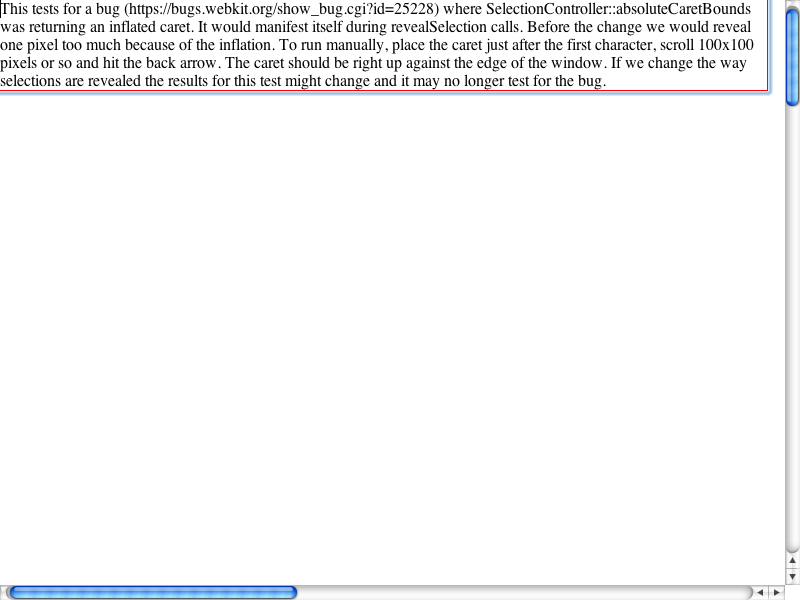
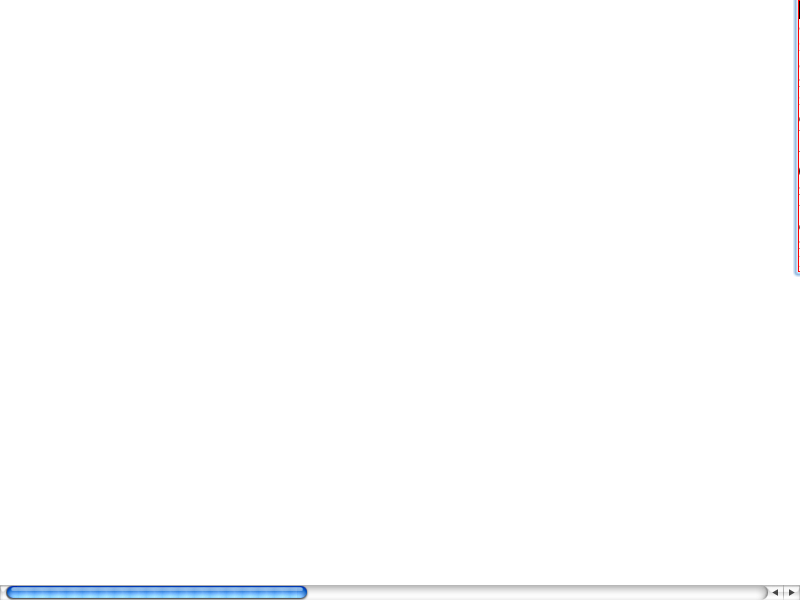
2010-05-26  Zelidrag Hornung  <zelidrag@chromium.org>
Reviewed by Ojan Vafai.

        Fixed frame page up/down scrolling calculation. Made sure that the
        cursor moves with page up/down event. Please note that now for mac
        editing behavior we will scroll the content to center the cursor on
        page up/down while other platforms will align the cursor with the top of
        displayed frame.
        https://bugs.webkit.org/show_bug.cgi?id=38213

        * editing/input/option-page-up-down-expected.txt: Fixed page scroll calculation. Now scroll height is calculated only from the visible portion not the entire frame height.
        * editing/input/option-page-up-down.html: Ditto.
        * editing/input/scroll-viewport-page-up-down-expected.txt: Scrolling test of contenteditable iframe and div.
        * editing/input/scroll-viewport-page-up-down.html: Ditto.
        * editing/resources/contenteditable-iframe-fixed-size-src.html: Resource for the scrolling test above.
        * platform/mac/editing/selection/25228.html: Change the test to have the cursor on the right edge of the screen.  The original test
            wasn't testing the behavior anymore.
2010-05-26  Zelidrag Hornung  <zelidrag@chromium.org>

        Reviewed by Ojan Vafai.

        Fixed frame page up/down scrolling calculation. Made sure that the
        cursor moves with page up/down event. Please note that now for mac
        editing behavior we will scroll the content to center the cursor on
[…]

Changed region(s): [[0.0, 0.0, 1.0, 1.0], [0.3438, 0.96, 0.4062, 1.0], [0.0, 0.96, 0.0312, 1.0]]

diff --git a/editing/input/option-page-up-down.html b/editing/input/option-page-up-down.html
@@ -1,17 +1,43 @@
+<head>
+<style type="text/css">
+  .ahem { font: 20px Ahem; }
+</style>
 <script>
 if (window.layoutTestController)
     layoutTestController.dumpAsText();
 
-function runTest()
-{
+function runTest() {
+  runFrameCursorMoveTest();
+  runDivCursorMoveTest();
+}
+
+function generateContent() {
+    var content = "";
+    for (var i = 0; i < 10; ++i)
+        content += "<p>line " + i + "</p>\n";
+    return content;
+}
+
+function runFrameCursorMoveTest() {
     var frame = frames[0];
     var doc = frame.document;
     var body = doc.body;
-    for (var i = 0; i < 10; ++i)
-        body.innerHTML += "<p>line " + i + "</p>\n";
+    body.innerHTML = generateContent();
     frame.focus();
     frame.getSelection().setPosition(body.firstChild, 0);
+    runCursorMoveTest("iframe", frame, frame);
+}
 
+function runDivCursorMoveTest() {
+    var editable = document.getElementById('editable');
+    editable.innerHTML = generateContent();
+    editable.focus();
+    window.getSelection().setPosition(editable, 0);
+    runCursorMoveTest("div", editable, window);
+}
+
+function runCursorMoveTest(testName, frame, selectionSource)
+{
     var onMacPlatform = navigator.userAgent.search(/\bMac OS X\b/) != -1;
     var modifiers = onMacPlatform ? ["altKey"] : [];
 
@@ -19,26 +45,46 @@ function runTest()
         return;
 
     eventSender.keyDown("pageDown", modifiers);
-    var line = frame.getSelection().baseNode.nodeValue;
-    if (line != "line 8")
-        throw "cursor should be at line 8, not " + line;
+    var line = selectionSource.getSelection().baseNode.nodeValue;
+    if (line != "line 3")
+        throw "cursor should be at line 3, not " + line;
 
     eventSender.keyDown("pageDown", modifiers);
-    var line = frame.getSelection().baseNode.nodeValue;
-    if (line != "line 9")
-        throw "cursor should be at line 9, not " + line;
+    var line = selectionSource.getSelection().baseNode.nodeValue;
+    if (line != "line 6")
+        throw "cursor should be at line 6, not " + line;
 
     eventSender.keyDown("pageUp", modifiers);
-    var line = frame.getSelection().baseNode.nodeValue;
-    if (line != "line 1")
-        throw "cursor should be at line 1, not " + line;
+    var line = selectionSource.getSelection().baseNode.nodeValue;
+    if (line != "line 3")
+        throw "cursor should be at line 3, not " + line;
 
-    document.getElementById("results").innerText = "PASS";
+    // Test that on Mac pageDown/pageUp does not move the cursor at all.
+    if (onMacPlatform) {
+      eventSender.keyDown("pageDown", []);
+      var line = selectionSource.getSelection().baseNode.nodeValue;
+      if (line != "line 3") {
+          document.getElementById("results").innerText = "cursor should be at line 3, not " + line;
+          throw "cursor should be at line 3, not " + line;
+      }
+
+      eventSender.keyDown("pageUp", []);
+      var line = selectionSource.getSelection().baseNode.nodeValue;
+      if (line != "line 3") {
+          document.getElementById("results").innerText = "cursor should be at line 3, not " + line;
+          throw "cursor should be at line 3, not " + line;
+      }
+    }
+
+    document.getElementById("results").innerHTML += testName + " PASS<br/>";
 }
 </script>
-
-<div>On Mac, option+pagedown should move the mouse cursor and scroll in text areas.  On
-other platforms, pagedown should move the mouse cursor and scroll in text areas.  This
-test requires DRT to pass.</div>
-<iframe src="../resources/contenteditable-iframe-src.html" onload="runTest()"></iframe>
-<div id="results">FAIL</div>
+</head>
+<body>
+<div>Page up/down (option+page up/down on Mac) should move the move cursor and scroll the content
+in contenteditable elements. This sample covers cursor position move test of a) iframe element containing
+contenteditable body, and b) content editable div element.</div>
+<iframe src="../resources/contenteditable-iframe-fixed-size-src.html" onload="runTest()"></iframe>
+<div id="editable" contenteditable="true" class="ahem" style="height:150px; overflow:auto;"></div>
+<div id="results"></div>
+</body>

diff --git a/editing/input/scroll-viewport-page-up-down.html b/editing/input/scroll-viewport-page-up-down.html
@@ -1,0 +1,89 @@
+<head>
+<style type="text/css">
+  .ahem { font: 20px Ahem; }
+</style>
+<script>
+
+if (window.layoutTestController)
+    layoutTestController.dumpAsText();
+
+var onMacPlatform = navigator.userAgent.search(/\bMac OS X\b/) != -1;
+
+function runTest() {
+    runFrameScrollTest();
+    runDivScrollTest();
+}
+
+function generateContent() {
+    var content = "";
+    for (var i = 0; i < 10; ++i)
+        content += "<p>line " + i + "</p>\n";
+    return content;
+}
+
+function runFrameScrollTest() {
+    var frame = frames[0];
+    var doc = frame.document;
+    var body = doc.body;
+    body.innerHTML = generateContent();
+    frame.focus();
+    frame.getSelection().setPosition(body.firstChild, 0);
+    if (onMacPlatform)
+        offsets = [ 55, 175 ];
+    else 
+        offsets = [ 120, 240 ];
+    runScrollingTest("iframe", frame, offsets, function() { return frame.pageYOffset; });
+}
+
+function runDivScrollTest() {
+    var editable = document.getElementById('editable');
+    editable.innerHTML = generateContent();
+    editable.focus();
+    window.getSelection().setPosition(editable, 0);
+    if (onMacPlatform)
+        offsets = [ 75, 195 ];
+    else 
+        offsets = [ 140, 260 ];
+    runScrollingTest("div", editable, offsets, function() { return editable.scrollTop; });
+}
+
+function runScrollingTest(testName, frame, offsets, scrollFunction) {
+    var tolerance = 0;
+    var modifiers = onMacPlatform ? ["altKey"] : [];
+    
+    if (!window.eventSender)
+        return;
+
+    eventSender.keyDown("pageDown", modifiers);
+    if (Math.abs(scrollFunction() - offsets[0]) > tolerance) {
+        throw "Frame viewport should be around " + offsets[0] +
+            "px , not at " + scrollFunction();
+    }
+
+    eventSender.keyDown("pageDown", modifiers);
+    if (Math.abs(scrollFunction() - offsets[1]) > tolerance) {
+        throw "Frame viewport should be around " + offsets[1] +
+            "px , not " + scrollFunction();
+    }
+
+    eventSender.keyDown("pageUp", modifiers);
+    if (Math.abs(scrollFunction() - offsets[0]) > tolerance) {
+        throw "Frame viewport should be around " + offsets[0] +
+            "px , not at " + scrollFunction();
+    }
+
+    document.getElementById("results").innerHTML += testName + " PASS<br/>";
+}
+</script>
+</head>
+<body>
+<div>Page up/down (option+page up/down on Mac) should move the move cursor and scroll the content
+in contenteditable elements. This sample covers scroll position test of a) iframe element containing
+contenteditable body and b) content editable div element. Even though the cursor will move exactly to
+the same location on all platforms (covered by test option-page-up-down.html), please note that Mac will
+scroll the visible area by placing the cursor position in the middle. All other platforms will scroll by
+keeping the cursor aligned with the top edge of the visible area. </div>
+<iframe src="../resources/contenteditable-iframe-fixed-size-src.html" onload="runTest()" style="height:150px; padding: 0px;"></iframe>
+<div id="editable" contenteditable="true" class="ahem" style="height:150px; overflow:auto; padding: 0px; margin: 0px;"></div>
+<div id="results"></div>
+</body>

diff --git a/platform/mac/editing/selection/25228.html b/platform/mac/editing/selection/25228.html
@@ -3,7 +3,6 @@
 function runTest() {
     if (!layoutTestController)
         return;
-        
     layoutTestController.waitUntilDone();
     window.setTimeout(afterDelay, 20);
 }
@@ -11,13 +10,13 @@ function runTest() {
 function afterDelay() {
     edit = document.getElementById("edit");
     edit.focus();
-    window.scrollBy(100, 100);
+    window.scrollTo(0, 0);
     textInputController.doCommand("moveBackward:");
     layoutTestController.notifyDone();
 }
 </script>
 </head>
-<body onload="runTest();">
-<div id="edit" contentEditable="true" style="border: 1px solid red; height:">This tests for a bug (https://bugs.webkit.org/show_bug.cgi?id=25228) where SelectionController::absoluteCaretBounds was returning an inflated caret.  It would manifest itself during revealSelection calls.  Before the change we would reveal one pixel too much because of the inflation.  To run manually, place the caret just after the first character, scroll 100x100 pixels or so and hit the back arrow.  The caret should be right up against the edge of the window.  If we change the way selections are revealed the results for this test might change and it may no longer test for the bug.</div>
-<div style="height:3000px; width:2000px;">
+<body onload="runTest();" style="padding: 0; margin:0">
+<div id="edit" contentEditable="true" style="border: 1px solid red; width:300px; margin-left: 798px; padding:0; height:">This tests for a bug (https://bugs.webkit.org/show_bug.cgi?id=25228) where SelectionController::absoluteCaretBounds was returning an inflated caret.  It would manifest itself during revealSelection calls.  Before the change we would reveal one pixel too much because of the inflation.  To run manually, place the caret just after the first character, scroll to 0, 0 and hit the back arrow.  The caret should be right up against the edge of the window and the window should still be at scroll 0, 0.  If we change the way selections are revealed the results for this test might change and it may no longer test for the bug.</div>
+<div style="width:2000px;">
 </body>

diff --git a/editing/resources/contenteditable-iframe-fixed-size-src.html b/editing/resources/contenteditable-iframe-fixed-size-src.html
@@ -1,0 +1,6 @@
+<style type="text/css">
+  .ahem { font: 20px Ahem; }
+</style>
+<body bgcolor="lightyellow" contenteditable class="ahem" style="padding: 0px; margin: 0px;">
+
+</body>
